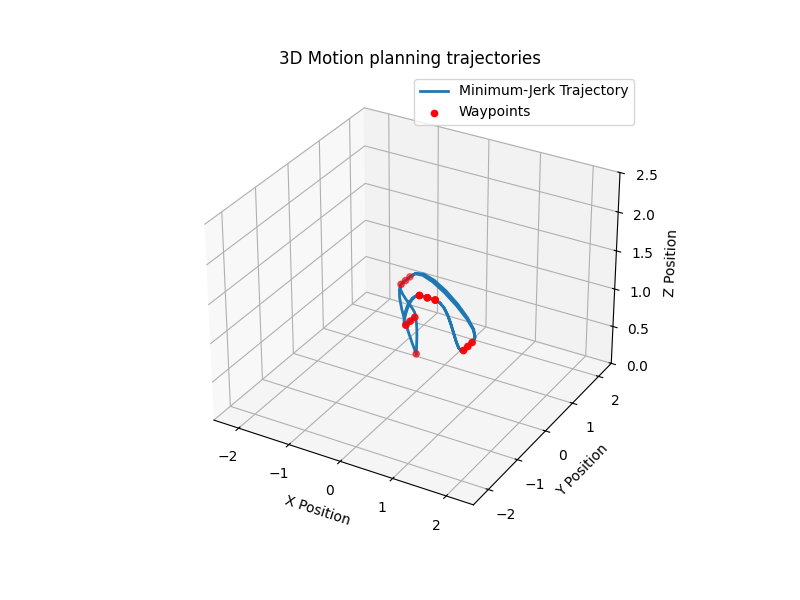
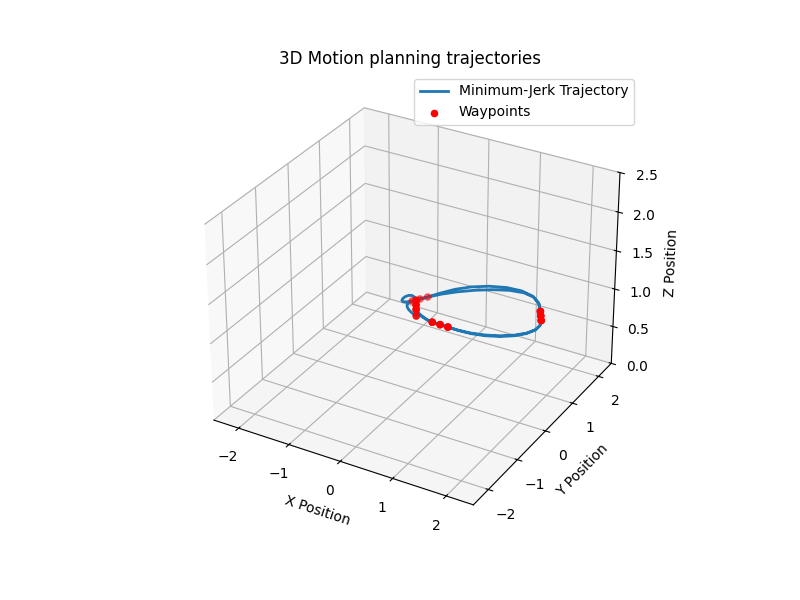
updated gate positions

Changed region(s): [[0.5, 0.45, 0.6875, 0.6]]

diff --git a/main.py b/main.py
@@ -48,17 +48,17 @@ STATE = {
 GATE_THRESHOLD = 0.05                           # Threshold for the position check, in meters
 DT = 0.0001                                       # Time step for the main loop, in seconds
 LANDING_COORD = [0, 0, 0, 0]                    # Landing position of the drone, in [m, m, m, rad]
-TAKE_OFF_COORD = [0, 0, 0.5, 0]                 # Take off position of the drone, in [m, m, m, rad]
-GATES = [[0.2, -0.35, 1.37, np.deg2rad(-60)],   # [x, y, z, yaw] of each true gate, in [m, m, m, rad]
+TAKE_OFF_COORD = [0, 0, 1.0,  np.deg2rad(-60)]                 # Take off position of the drone, in [m, m, m, rad]
+GATES = [[0.2, -0.35, 1.3, np.deg2rad(-60)],   # [x, y, z, yaw] of each true gate, in [m, m, m, rad]
          [0.8, -0.6, 1.25, np.deg2rad(-1.5)],
          [2.2, 0.3, 1.33, np.deg2rad(120)],
          [-0.4, 0.82, 0.87, np.deg2rad(-123)]]
-SIMPLE_GATES, GATES = csv_to_waypoints(csv_file_path) # Load the gates from the CSV file
-print(SIMPLE_GATES)
+# SIMPLE_GATES, GATES = csv_to_waypoints(csv_file_path) # Load the gates from the CSV file
+# print(SIMPLE_GATES)
 print(GATES)
 OFFSET_GATE = 0.15                              # Offset to the leading and trailing gate, in meters
-RACING_VELOCITY = 1.6                           # Velocity goal during the racing, in m/s
-
+RACING_VELOCITY = 1.0                           # Velocity goal during the racing, in m/s
+PLANNER_STEP = 10
 
 class LoggingExample:
     """
@@ -207,11 +207,12 @@ class MotionPlanner3D():
         self.trajectory_setpoints, self.time_setpoints = self.poly_setpoint_extraction(poly_coeffs, obs, path_waypoints)
 
     def init_params(self, path_waypoints):
+        global PLANNER_STEP, RACING_VELOCITY
         # Inputs:
         # - path_waypoints: The sequence of input path waypoints2laps provided by the path-planner, including the start and final goal position: Vector of m waypoints2laps, consisting of a tuple with three reference positions each as provided by AStar
 
         # TUNE THE FOLLOWING PARAMETERS (PART 2) ----------------------------------------------------------------- ##
-        self.disc_steps = 10 #Integer number steps to divide every path segment into to provide the reference positions for PID control # IDEAL: Between 10 and 20
+        self.disc_steps = PLANNER_STEP #Integer number steps to divide every path segment into to provide the reference positions for PID control # IDEAL: Between 10 and 20
         self.vel_lim = 7.0 #Velocity limit of the drone (m/s)
         self.acc_lim = 50.0 #Acceleration limit of the drone (m/s²)
 
